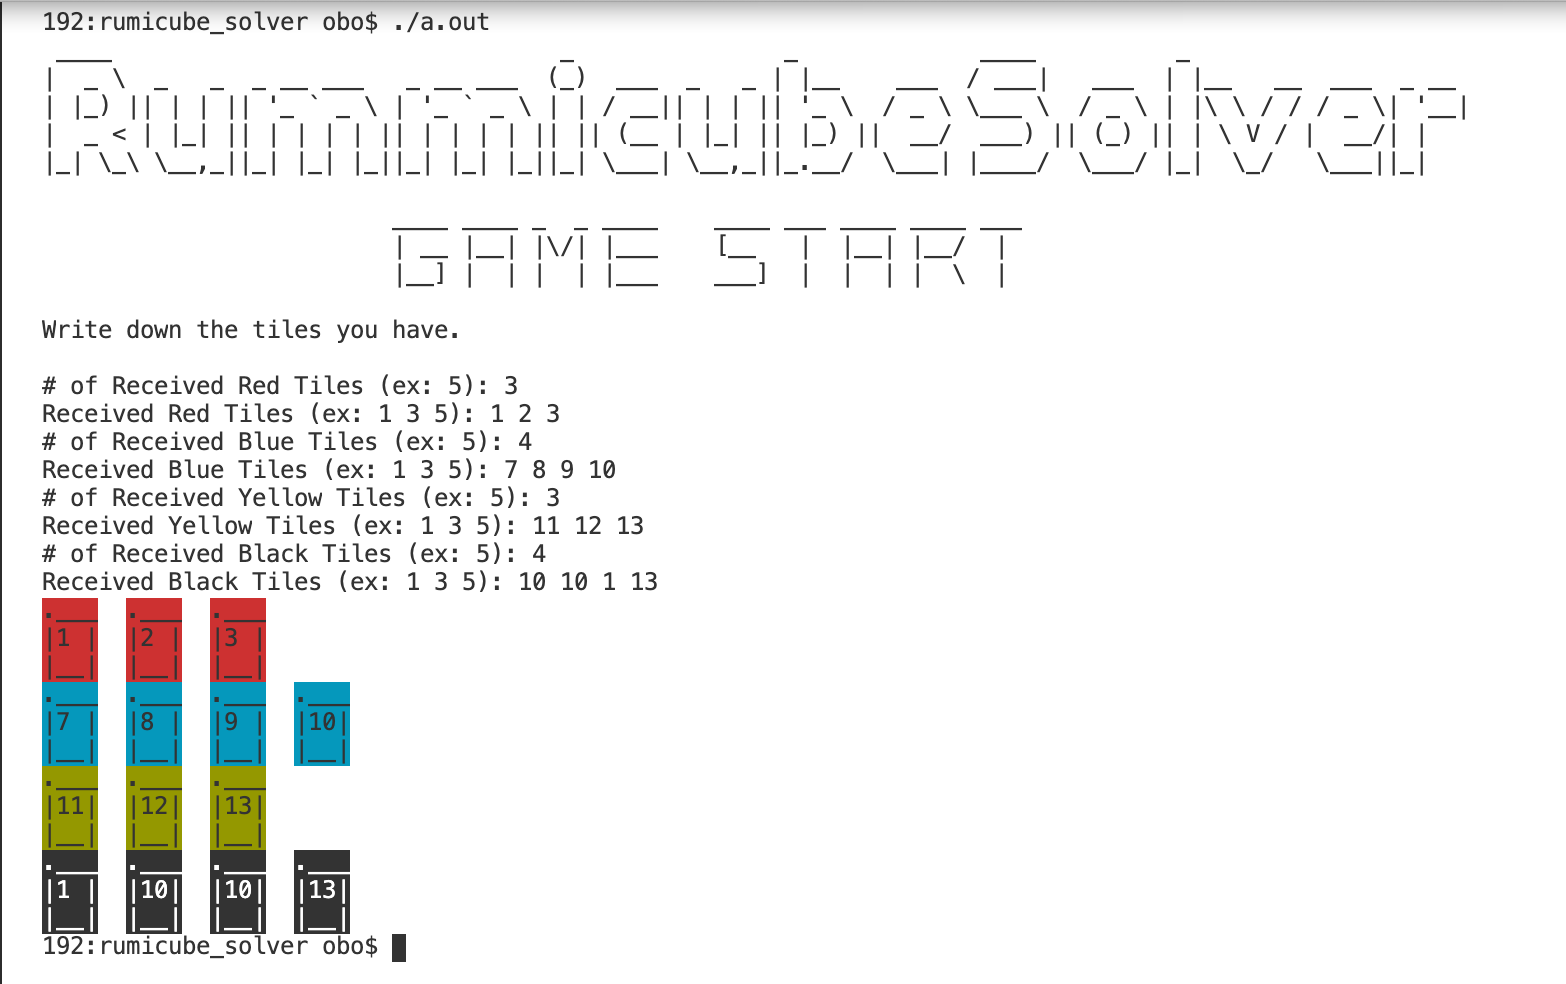
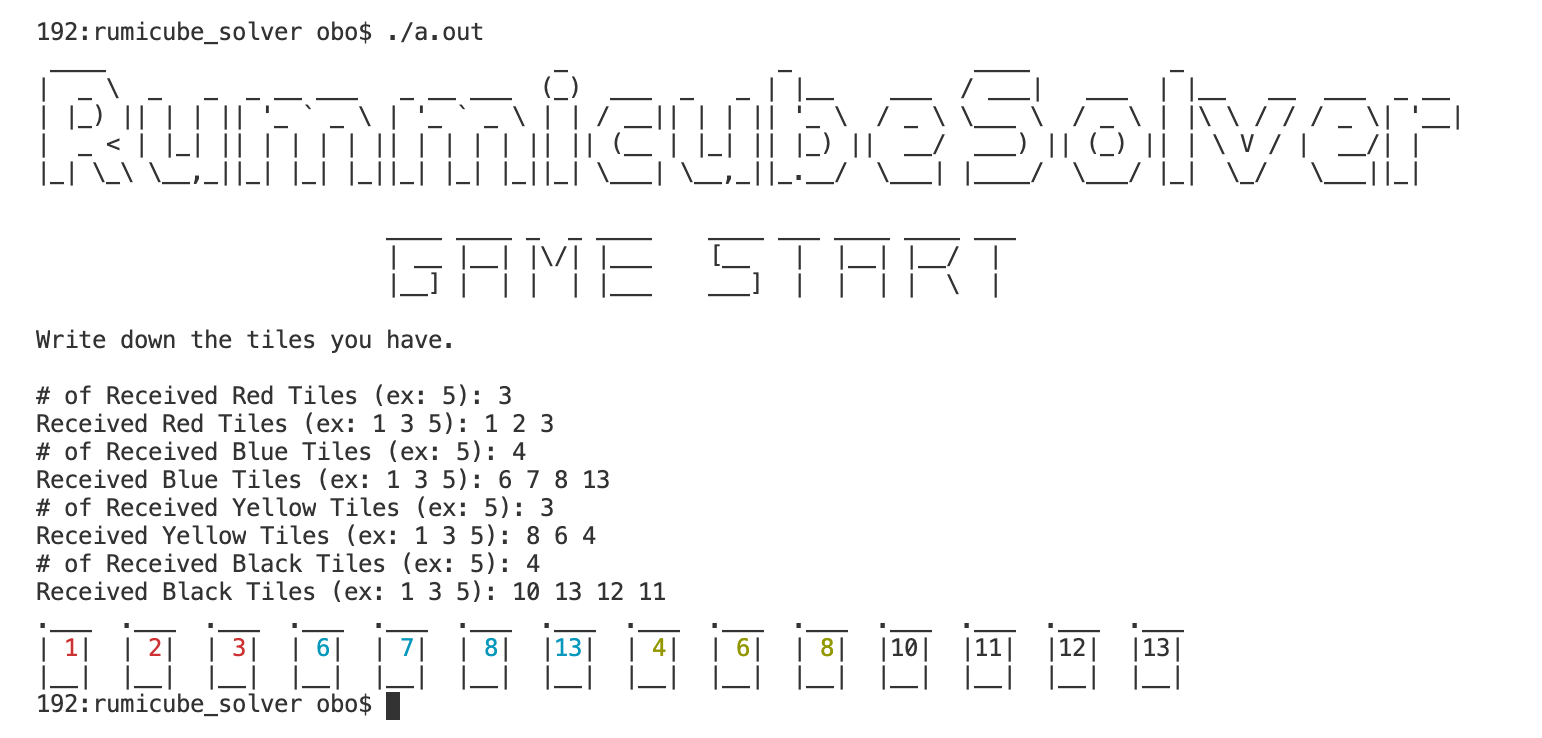
change screen

diff --git a/main.cpp b/main.cpp
@@ -8,10 +8,10 @@
 #include <string>
 
 
-#define BLACK 7
-#define BLUE 46
-#define RED 41
-#define YELLOW 43
+#define BLACK 0
+#define BLUE 36
+#define RED 31
+#define YELLOW 33
 
 
 using namespace std;
@@ -104,12 +104,12 @@ void init(void)
 
 void print_user_tiles()
 {
-    char string_tiles[20][20] = {"NONE","|1 |","|2 |","|3 |","|4 |","|5 |","|6 |","|7 |","|8 |","|9 |", "|10|" ,"|11|","|12|","|13|"}; 
+    // char string_tiles[20][20] = {"NONE","|1 |","|2 |","|3 |","|4 |","|5 |","|6 |","|7 |","|8 |","|9 |", "|10|" ,"|11|","|12|","|13|"}; 
     try
     {
-        for(int j = 0; j < num_of_red_tiles; j++)
+        for(int j = 1; j <= 14; j++)
         {
-            printf("\033[%dm%s\033[0m  ",RED, ".___");
+            printf(".___  ");
         }
         cout<<endl;
         for(int i = 1; i<= 13; i++)
@@ -118,24 +118,14 @@ void print_user_tiles()
             {
                 for(int j = 0; j < red_tiles[i]; j++)
                 {
-                    printf("\033[%dm%s\033[0m  ",RED, string_tiles[i]);
+                    printf("|");
+                    printf("\033[%dm%2d\033[0m",RED, i);
+                    printf("|  ");
                 }
 
             }
             
         }
-        cout<<endl;
-        for(int j = 0; j < num_of_red_tiles; j++)
-        {
-            printf("\033[%dm%s\033[0m  ",RED, "|__|");
-        }
-        cout<<endl;
-
-        for(int j = 0; j < num_of_blue_tiles; j++)
-        {
-            printf("\033[%dm%s\033[0m  ", BLUE, ".___");
-        }
-        cout<<endl;
         for(int i = 1; i<= 13; i++)
         {
             if(blue_tiles[i] != 0)
@@ -143,60 +133,40 @@ void print_user_tiles()
 
                 for(int j = 0; j < blue_tiles[i]; j++)
                 {
-                    printf("\033[%dm%s\033[0m  ", BLUE, string_tiles[i]);
+                    printf("|");
+                    printf("\033[%dm%2d\033[0m",BLUE, i);
+                    printf("|  ");
                 }
             }    
         }
-        cout<<endl;
-        for(int j = 0; j < num_of_blue_tiles; j++)
-        {
-            printf("\033[%dm%s\033[0m  ", BLUE, "|__|");
-        }
-
-        cout<<endl;
-
-
-        for(int j = 0; j < num_of_yellow_tiles; j++)
-        {
-            printf("\033[%dm%s\033[0m  ", YELLOW, ".___");
-        }
-        cout<<endl;
         for(int i = 1; i<= 13; i++)
         {
             if(yellow_tiles[i] != 0)
             {
                 for(int j = 0; j < yellow_tiles[i]; j++)
                 {
-                    printf("\033[%dm%s\033[0m  ", YELLOW, string_tiles[i]);
+                    printf("|");
+                    printf("\033[%dm%2d\033[0m",YELLOW, i);
+                    printf("|  ");
                 }
             }
         }
-        cout<<endl;
-        for(int j = 0; j < num_of_yellow_tiles; j++)
-        {
-            printf("\033[%dm%s\033[0m  ", YELLOW, "|__|");
-        }
-
-        cout<<endl;
-        for(int j = 0; j < num_of_black_tiles; j++)
-        {
-            printf("\033[%dm%s\033[0m  ",BLACK,  ".___");
-        }
-        cout<<endl;
         for(int i = 1; i<= 13; i++)
         {
             if(black_tiles[i] != 0)
             {
                 for(int j = 0; j < black_tiles[i]; j++)
                 {
-                    printf("\033[%dm%s\033[0m  ",BLACK, string_tiles[i]);
+                    printf("|");
+                    printf("\033[%dm%2d\033[0m",BLACK, i);
+                    printf("|  ");
                 }
             }
         } 
         cout<<endl;
-        for(int j = 0; j < num_of_black_tiles; j++)
+        for(int j = 1; j <= 14; j++)
         {
-            printf("\033[%dm%s\033[0m  ",BLACK, "|__|");
+            printf("|__|  ");
         }
         cout<<endl;
     }
@@ -214,6 +184,23 @@ void error_msg()
     " \\_/  |  | |  |     |   \\_/  |__] |___ |  \\    |  |     | | | |__/ |  | |\\ | | __     |__/ |___  |  |__/  \\_/   \n"<<
     "  |   |__| |__|     |    |   |    |___ |__/    |  |     |_|_| |  \\ |__| | \\| |__] .   |  \\ |___  |  |  \\   |   .\n"<<endl;
 }
+
+// void cmb_same_value()
+// {
+//     for(int i = 1;i <= 13; i++)
+//     {
+//         int count = 0;
+//         if(red_tiles[i] != 0) count++;
+//         if(yellow_tiles[i] != 0) count++;
+//         if(blue_tiles[i] != 0) count++;
+//         if(black_tiles[i] != 0) count++;
+
+//         if(3 <= count)
+//         {
+
+//         }
+//     }
+// }
 
 int main(void)
 {

diff --git a/color.cpp b/color.cpp
@@ -5,3 +5,4 @@ int main(int argc, char **argv) {
      printf("%3d --> \033[%dm%s\033[0m\n", i, i, "Text");
       // \033[0m 스타일 끝. 스타일을 끝내지 않으면 이후의 출력들도 앞서 지정한 스타일로 출력된다. 
       } return 0; }
+      
